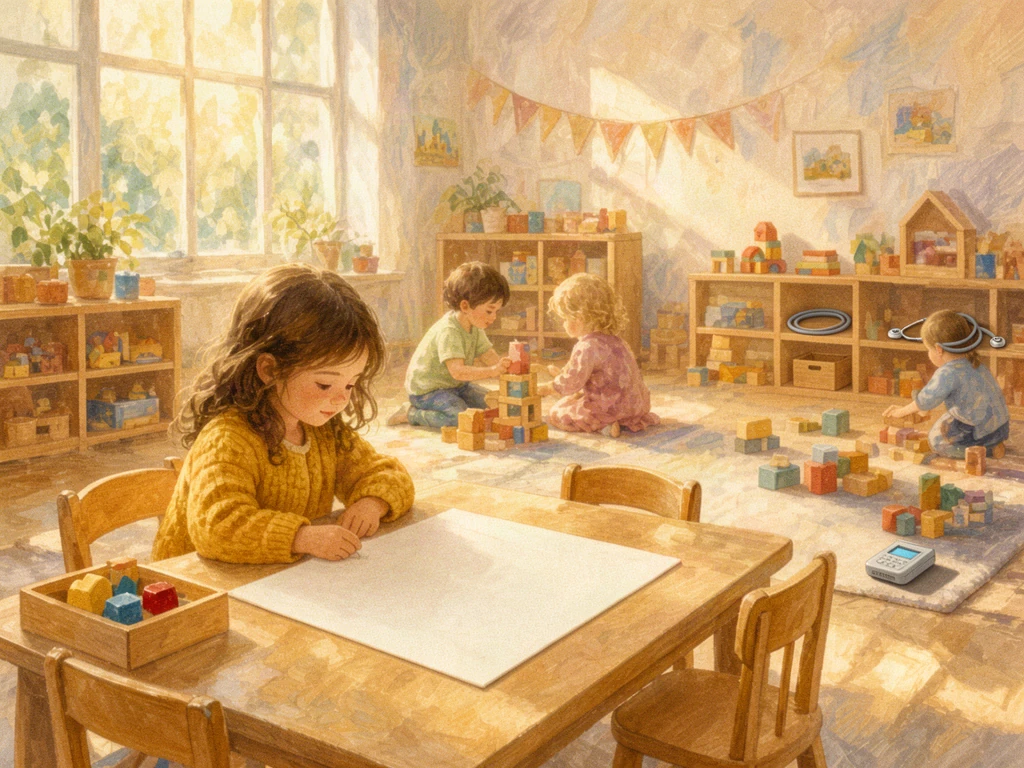
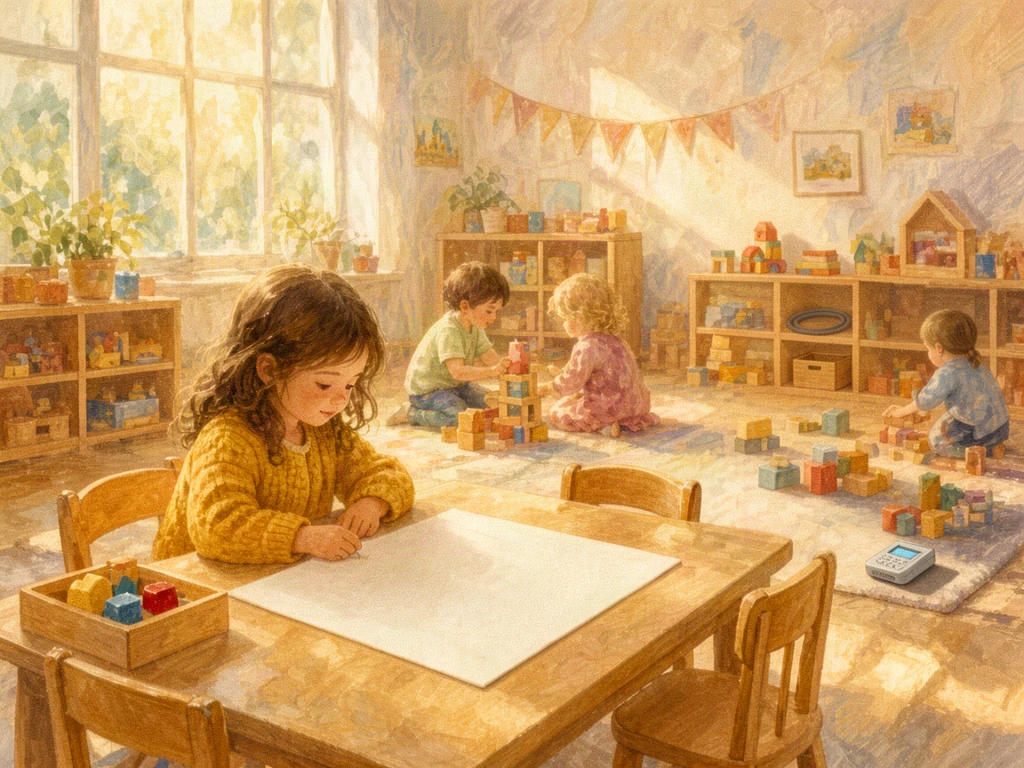
beta3: stage2 boy fixed, monitor on floor, shelf stethoscope

Changed region(s): [[0.875, 0.4062, 1.0, 0.4688], [0.75, 0.4062, 0.8438, 0.4375]]

diff --git a/beta/index.html b/beta/index.html
@@ -110,7 +110,7 @@ const D={stages:[
   o:{sk:'…dýcha sama. To je dobrý znak.',en:'…she is breathing on her own. That is a good sign.'},
   in:{sk:'Svet bol prázdny papier a ja som chcela všetky farby.',en:'The world was a blank sheet and I wanted every colour.'},
   out:{sk:'Do každého obrázka som kreslila slnko. Aj do tých nočných.',en:'I drew a sun into every picture. Even the night ones.'},
-  h:[{x:81,y:40.5,r:5,n:{sk:'Stetoskop v polici',en:'A stethoscope on the shelf'},w:{sk:'Medzi hračkami visí stetoskop. Nikto v škôlke ho nepotrebuje.',en:'A stethoscope hangs among the toys. Nobody in a kindergarten needs one.'}},{x:87.5,y:73,r:5,n:{sk:'Defibrilátor na koberci',en:'A defibrillator on the rug'},w:{sk:'Na koberci medzi kockami leží malý defibrilátor z izby 214.',en:'A small defibrillator from room 214 lies on the rug among the blocks.'}}]},
+  h:[{x:80,y:44,r:5,n:{sk:'Stetoskop v polici',en:'A stethoscope on the shelf'},w:{sk:'Medzi hračkami v polici leží stetoskop. V škôlke ho nikto nepotrebuje.',en:'A stethoscope lies among the toys on the shelf. Nobody in a kindergarten needs one.'}},{x:89,y:74.5,r:5,n:{sk:'Monitor na zemi',en:'A monitor on the floor'},w:{sk:'Na koberci pri deťoch leží monitor z izby 214.',en:'A monitor from room 214 lies on the rug beside the children.'}}]},
  {img:'assets/s03.webp',t:{sk:'Prvý deň v škole',en:'First Day of School'},
   o:{sk:'Sestrička: „Hovorte na ňu. Počuje vás.“',en:'Nurse: “Talk to her. She can hear you.”'},
   in:{sk:'Mama ma pri dverách pustila za ruku. Bola som taká malá.',en:'Mum let go of my hand at the door. I was so small.'},
